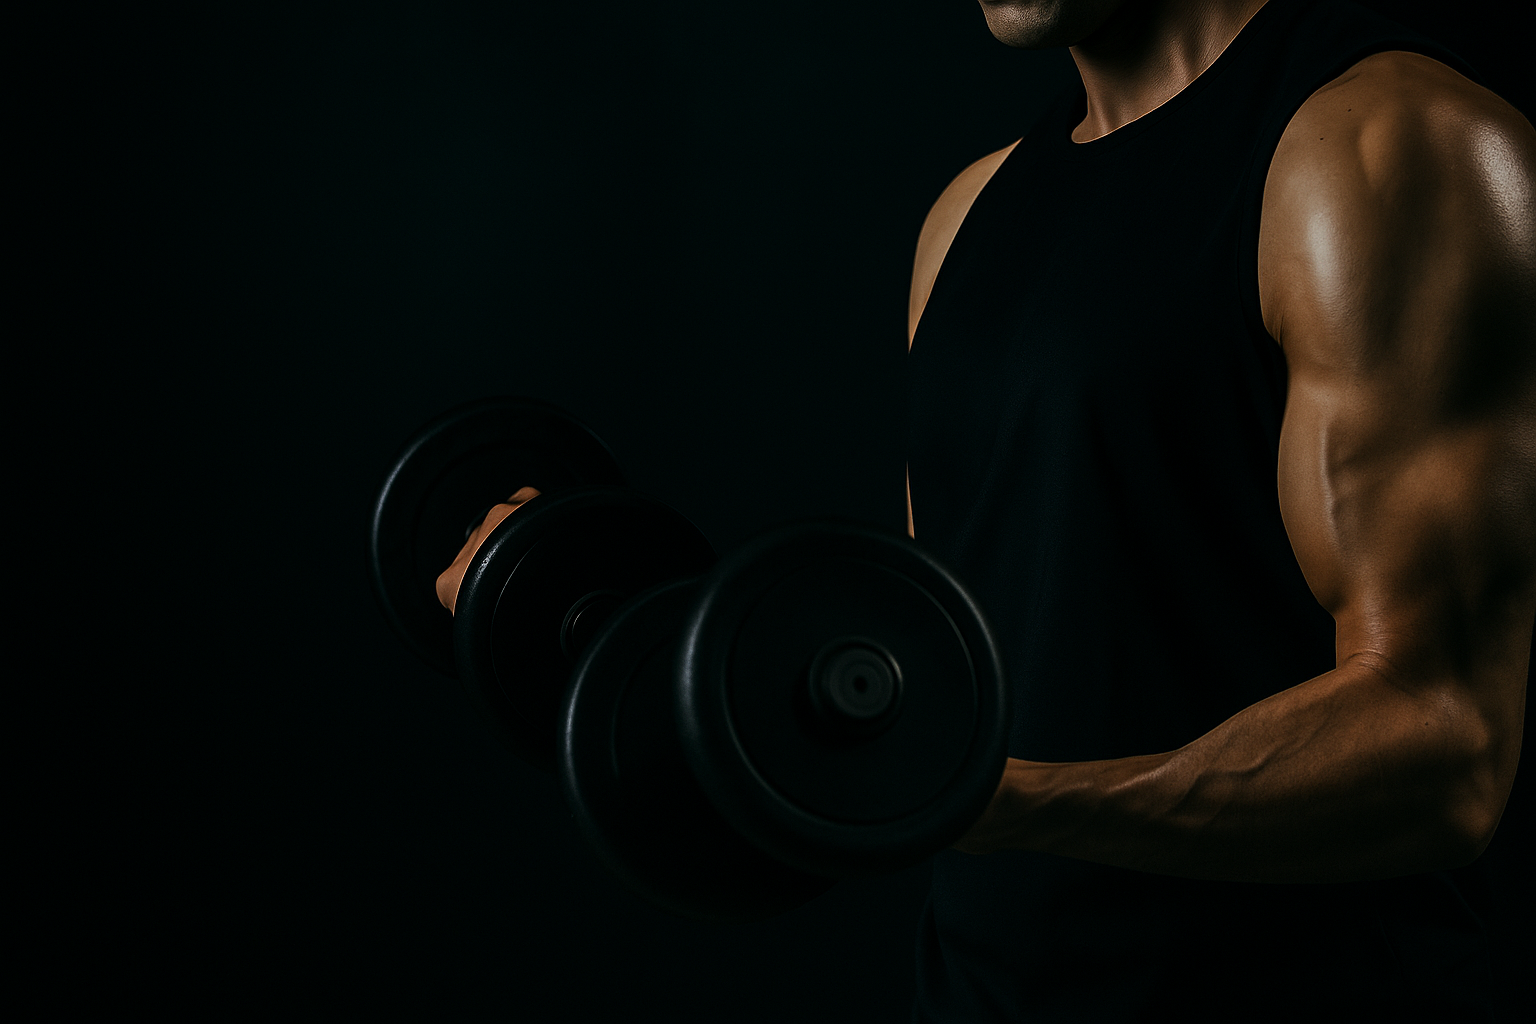
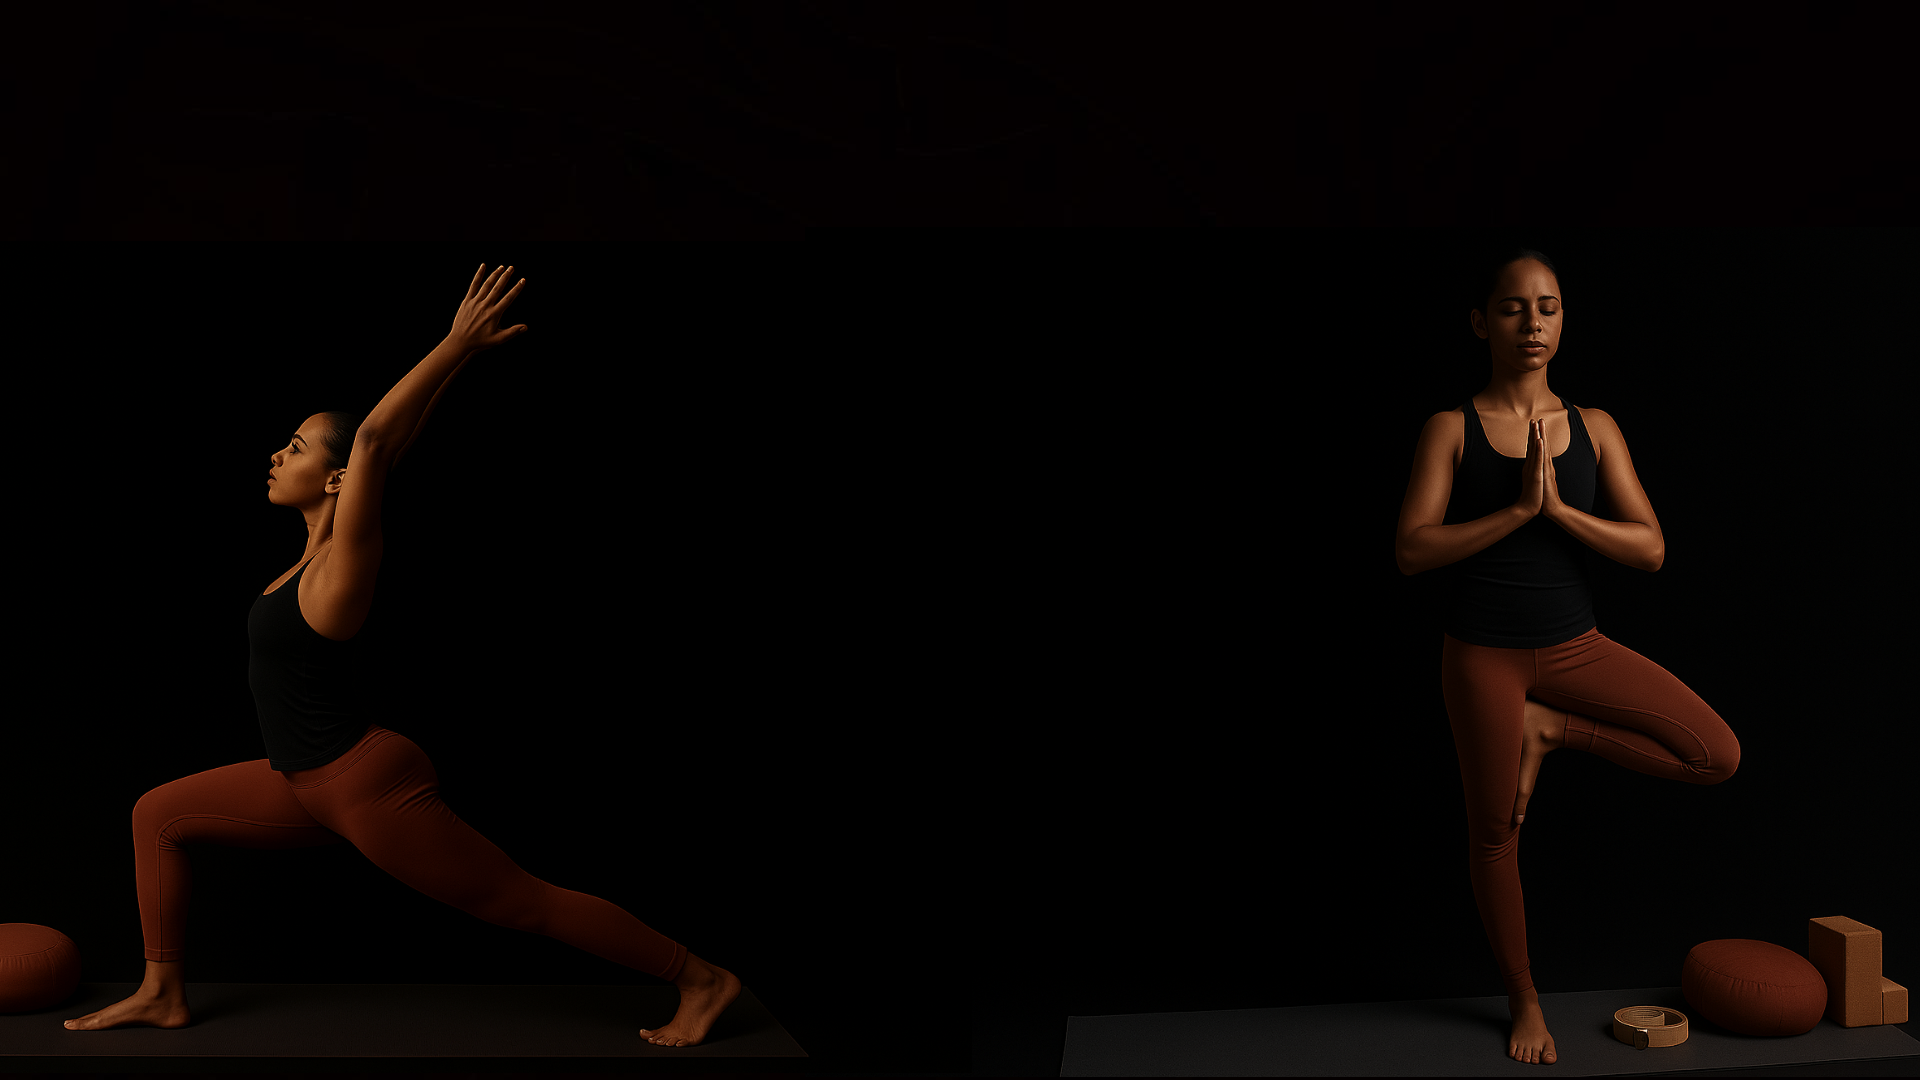
added background images to pages + adjusted xhtml code & css in member dashboard/PT dashboard

diff --git a/src/main/webapp/resources/css/styles.css b/src/main/webapp/resources/css/styles.css
@@ -1006,3 +1006,25 @@ background-size: 93px 82px;
 	transition: transform 0.3s ease;
 }
 
+
+/* THIS SECTION IS FOR MEMBER DASHBOARD - BACKGROUND ADJUSTMENT*/
+.payment-bg{
+  /* show whole image, no cropping */
+  background-image: url('../images/payment_bg.png'); /* same path as inline */
+  background-repeat: no-repeat;
+  background-position: bottom center;   /* equipment visible */
+  background-size: contain;             /* fit entire image */
+  background-color: #0f1115;            /* fill letterbox area */
+  min-height: calc(100vh - 72px);       /* full screen minus header */
+  padding-bottom: 60px;                  /* give space under the cards */
+}
+
+/* On narrow phones adj: */
+@media (max-width: 640px){
+  .payment-bg{
+    background-size: cover;
+    background-position: center;
+  }
+}
+
+
